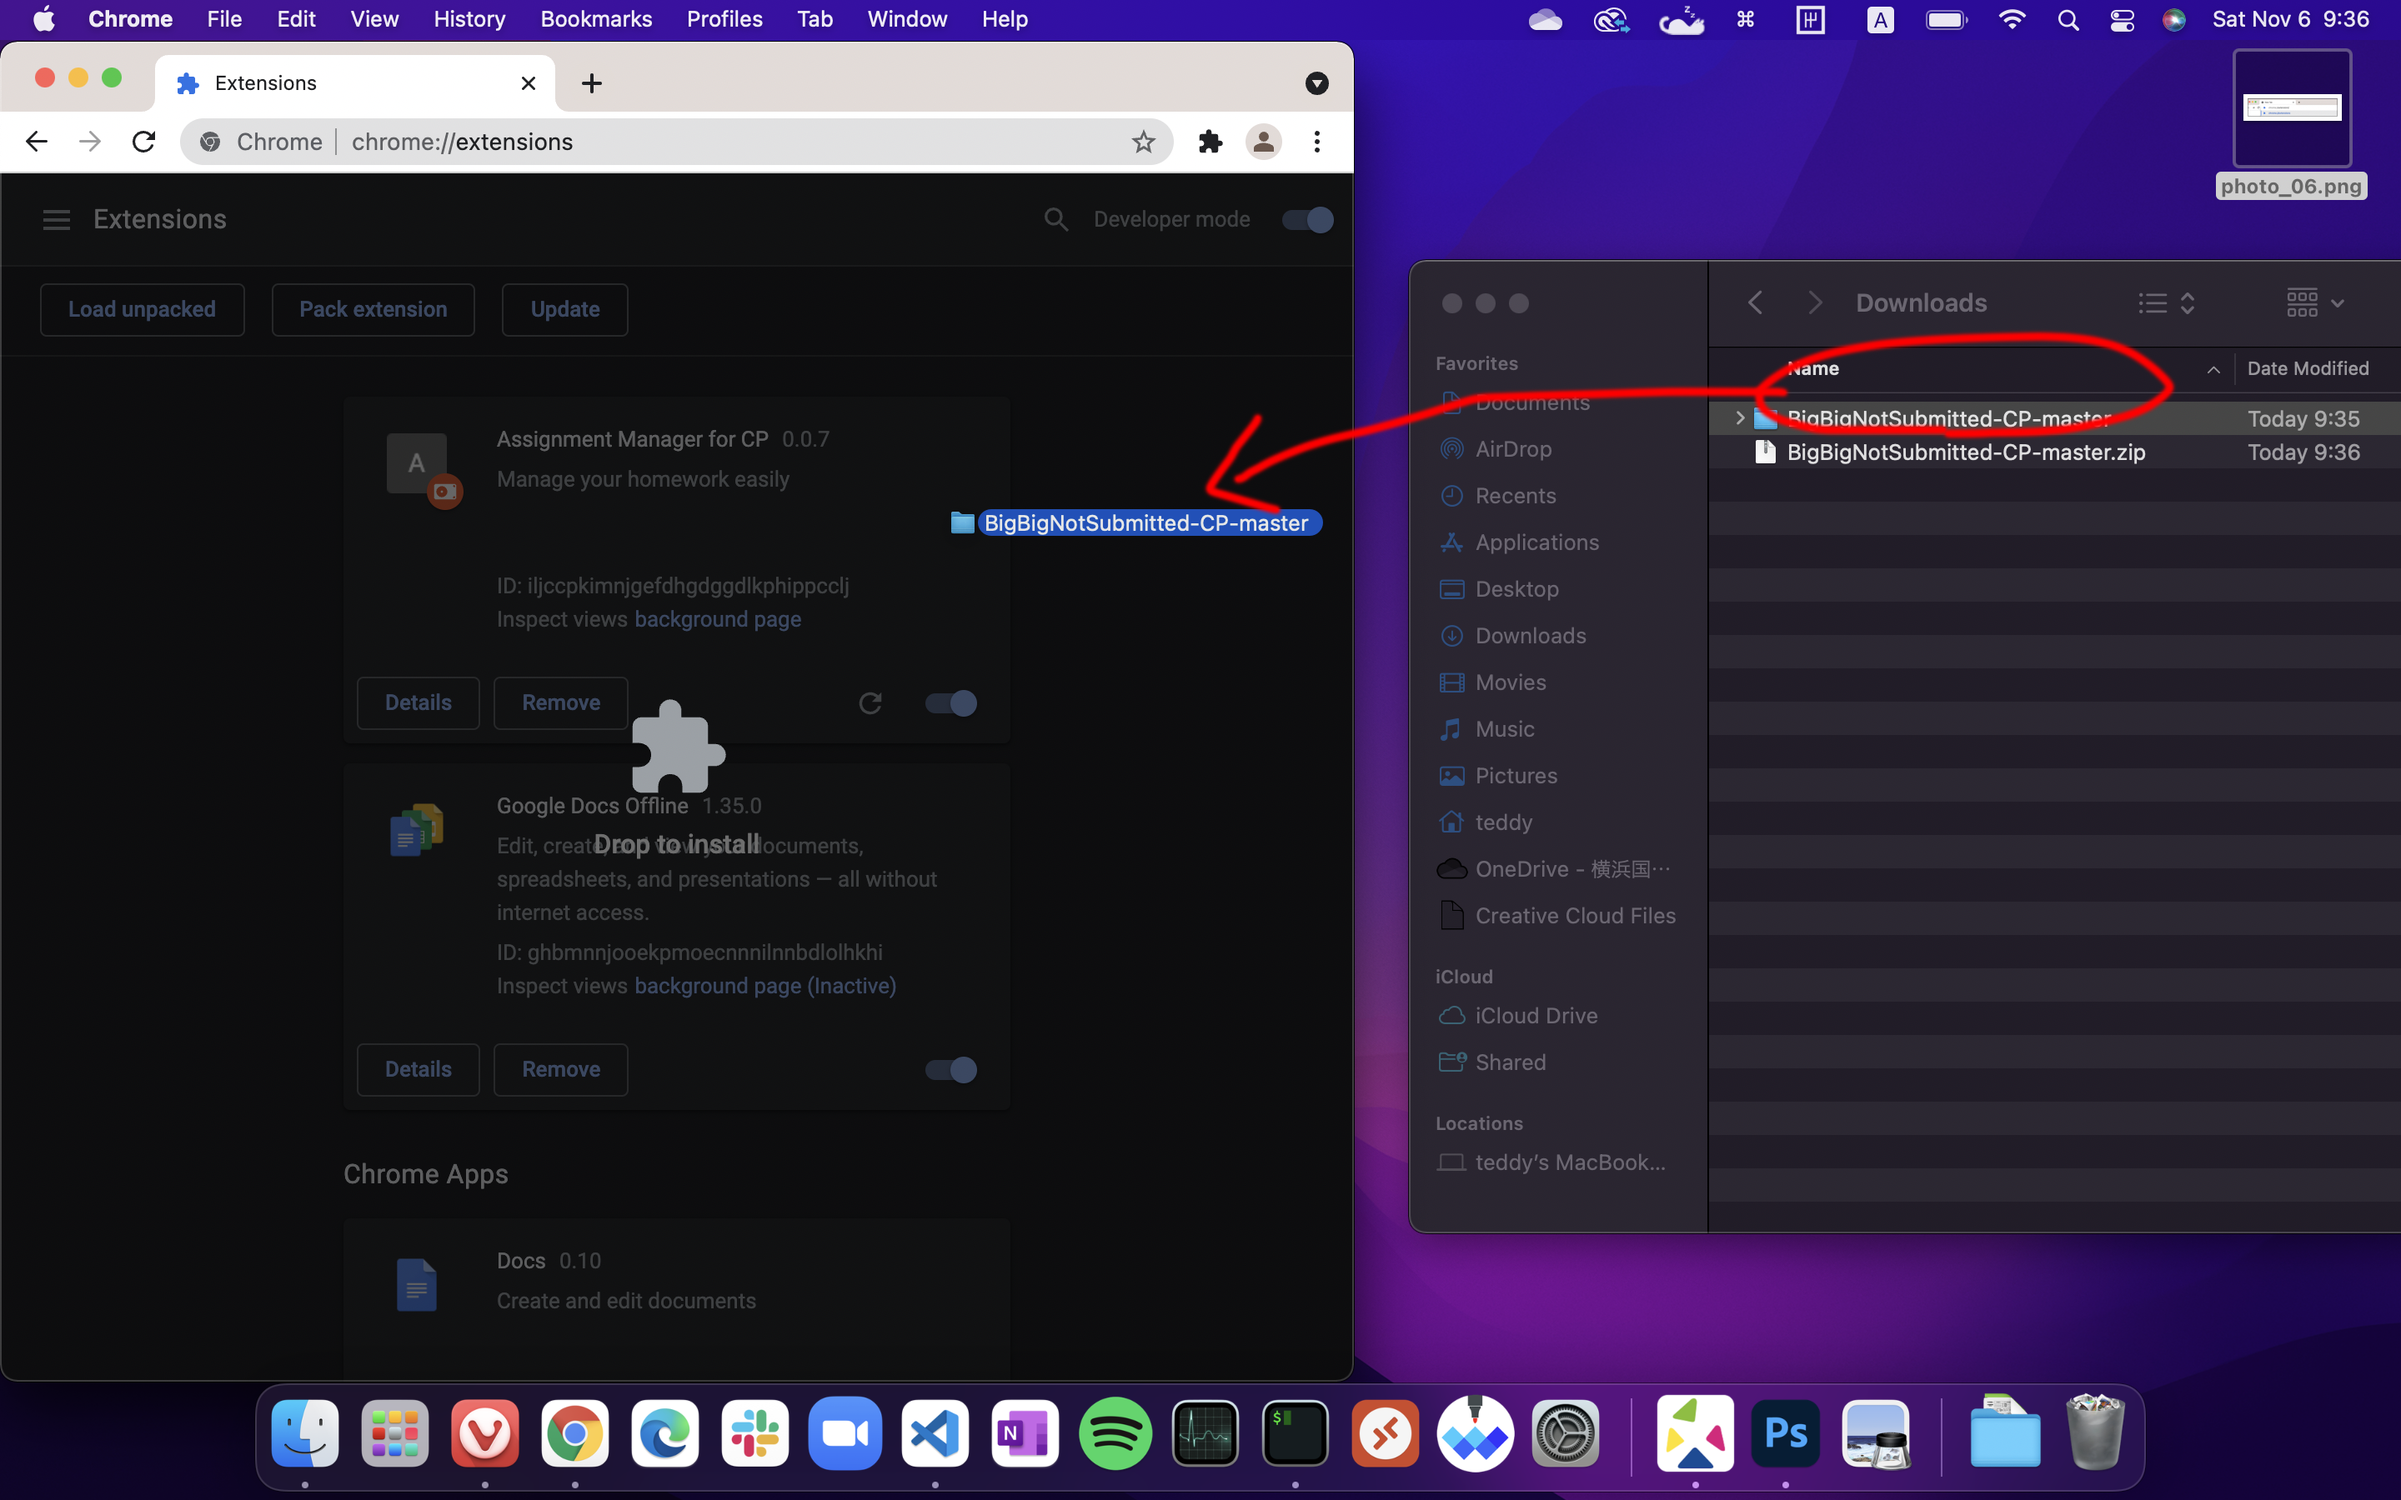
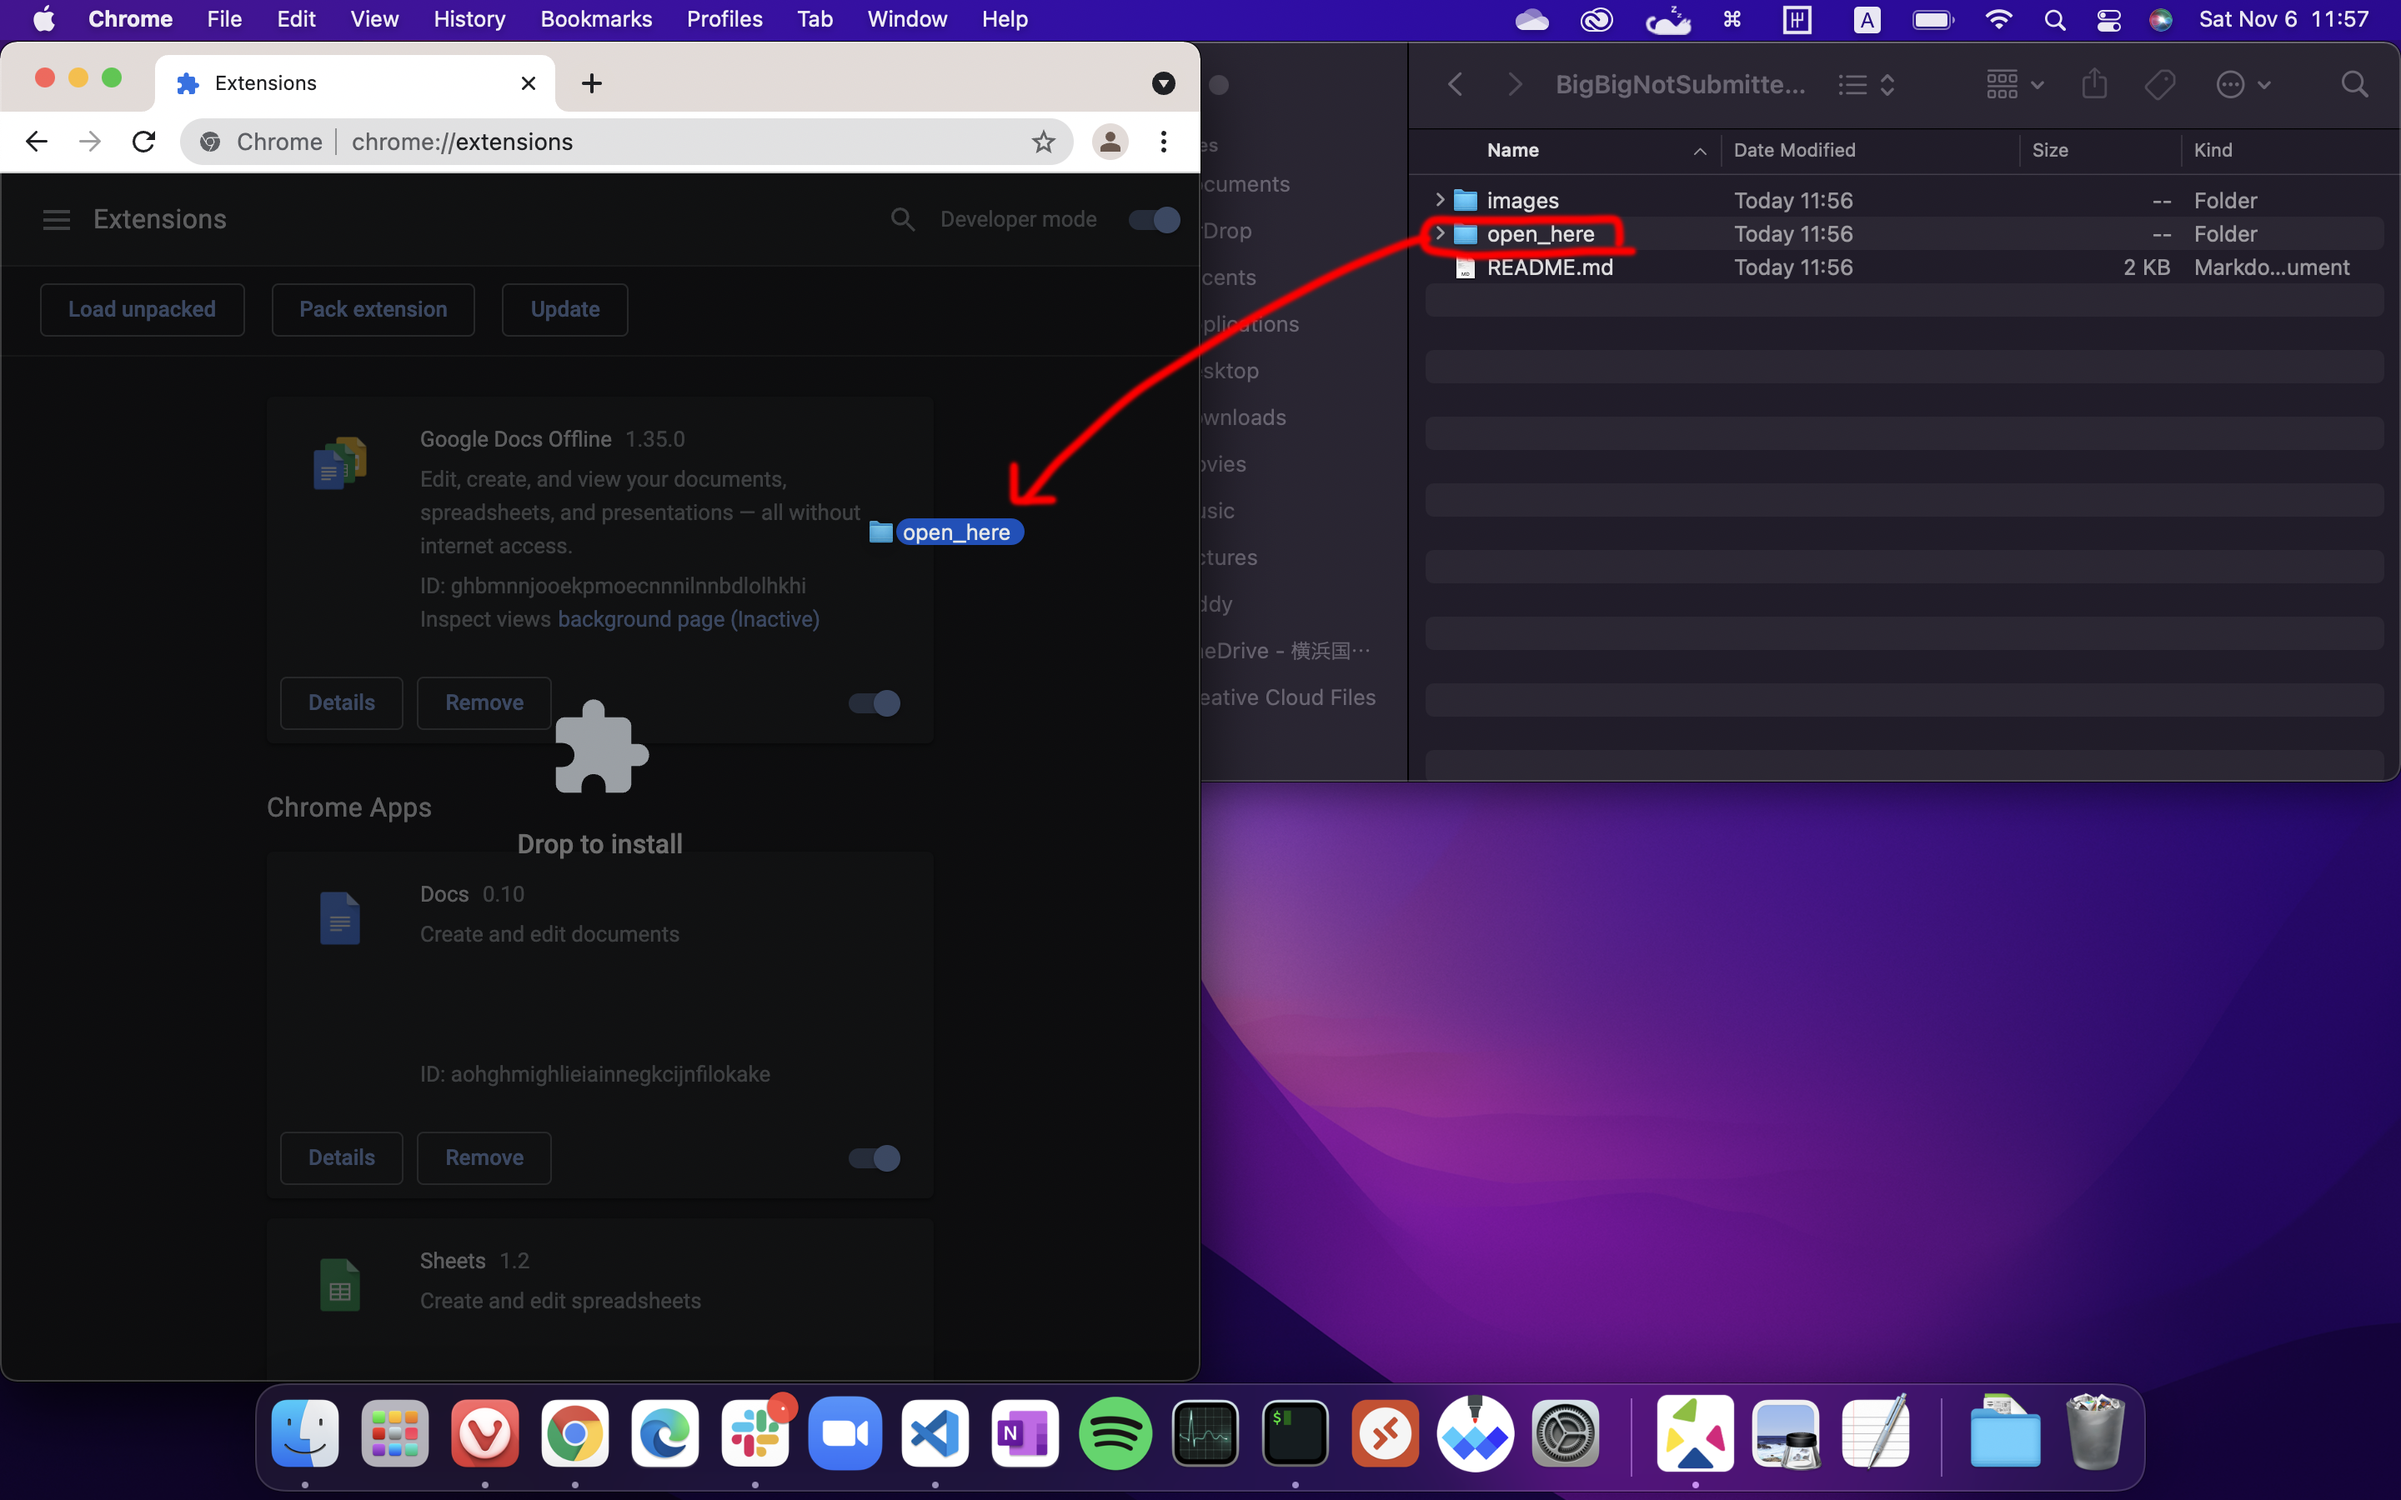
readme

diff --git a/README.md b/README.md
@@ -6,7 +6,7 @@ English Supported!
 クソデカ未回答は要望があれば対応します  
 [課題管理のやつ](https://github.com/OhVIton/Assignment-Management-CP)とも共存できます
 ## インストール方法
-Code → Download ZIPを押してダウンロードします  
+`Code` → `Download ZIP`を押してダウンロードします  
 ![a](images/photo_04.png)
 ダウンロードしたファイルを右クリック→すべて展開(Windows)か、ダブルクリックで展開(Mac)してください  
 ![a](images/photo_05.png)  
@@ -15,7 +15,7 @@ Code → Download ZIPを押してダウンロードします
 ![a](images/photo_06.png)  
 以下の画面が開いたら、右上にあるデベロッパーモードをクリックして有効化してください  
 ![a](images/photo_08.png)  
-そして、先程展開したものをここにドラッグアンドドロップします  
+そして、先程展開した`BigBigNotSubmitted-YNU-LMS-master`内にある、`open_here`フォルダを拡張機能のページにドラッグアンドドロップします  
 ![a](images/photo_09.png)  
 
 これで完了。おめでとう。  
